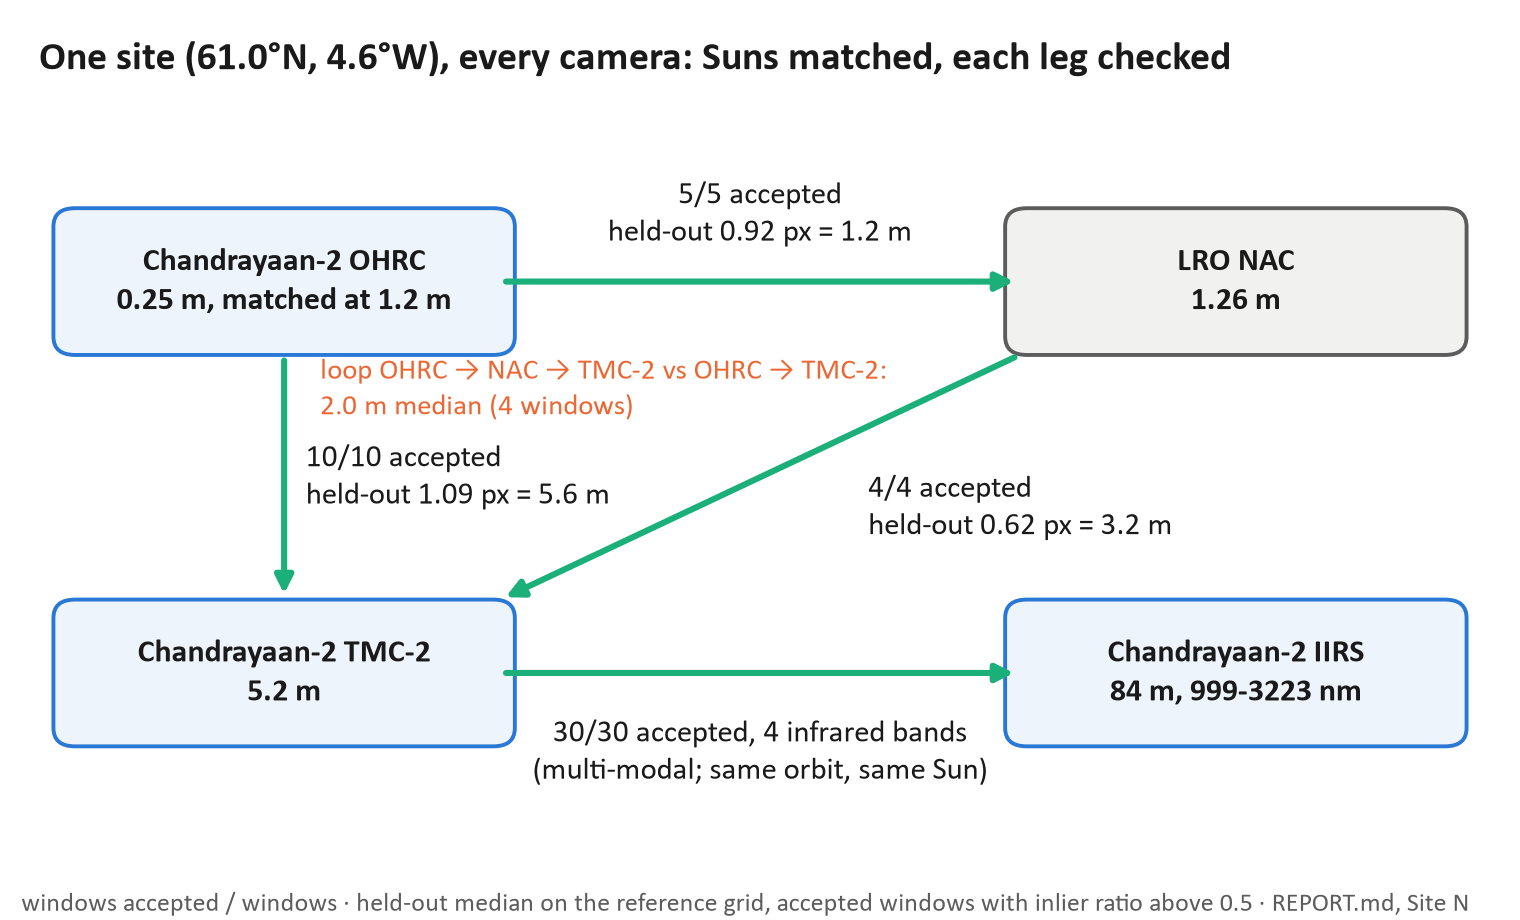
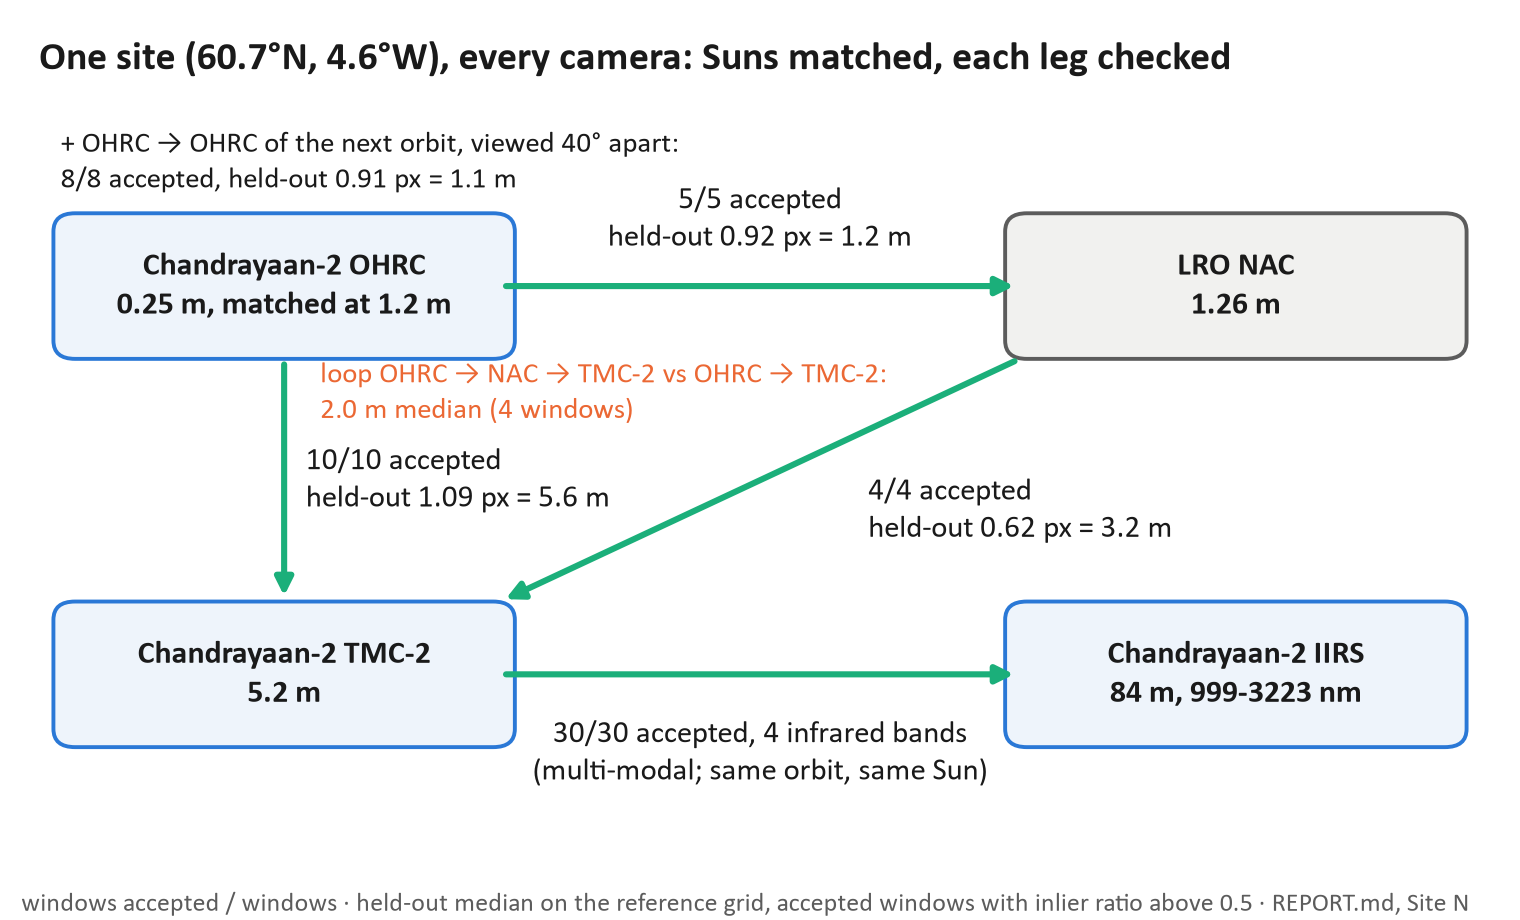
make_report: Site N's real viewpoint test (both viewing directions and Suns per window, the angle between them, verdicts, held-out medians), Site N placed at the windows' median; make_figures: fig10 carries the viewpoint pair and the same site position

diff --git a/ops/make_report.py b/ops/make_report.py
@@ -535,6 +535,8 @@ def section_site_n(reg, site_loops):
     windows and the loop OHRC -> NAC -> TMC-2 against OHRC -> TMC-2. Values read from the rows,
     the pairs' geometry_prior.json and the anchor NAC's saved correction."""
     rows = [r for r in reg if r["pair_id"].startswith("siten_")]
+    view = sorted([r for r in rows if _kind(r) == "ohrc-ohrc"], key=lambda r: r["pair_id"])
+    rows = [r for r in rows if _kind(r) != "ohrc-ohrc"]
     if not rows:
         return []
     gps = {r["pair_id"]: _jsonfile(ROOT / "data" / "pairs" / r["pair_id"] / "geometry_prior.json") or {} for r in rows}
@@ -550,9 +552,12 @@ def section_site_n(reg, site_loops):
     tmc = next((r["reference_product"] for r in rows if _kind(r).endswith("tmc2")), "?")
     nac = next((r["reference_product"] for r in rows if _kind(r) == "ohrc-nac"),
                next((r["source_product"] for r in rows if _kind(r) == "nac-tmc2"), "?"))
-    lat, lon = (g0.get("window_centre_latlon") or [None, None])
+    # the middle of the windows, as fig10's title (east longitudes in the log; the site is west of 0)
+    lat = st.median(float(r["window_lat"]) for r in rows)
+    lon = (st.median(float(r["window_lon"]) for r in rows) + 180.0) % 360.0 - 180.0
     L = ["## One site, every camera: OHRC, TMC-2, IIRS and an LRO NAC under matched Suns (Site N)", "",
-         f"OHRC `{ohrc}`, TMC-2 nadir `{tmc}`, LRO NAC `{nac}` near {_f(lat, 2)}°, {_f(lon, 2)}° "
+         f"OHRC `{ohrc}`, TMC-2 nadir `{tmc}`, LRO NAC `{nac}`, windows centred near {abs(lat):.1f}°"
+         f"{'N' if lat >= 0 else 'S'}, {abs(lon):.1f}°{'E' if lon >= 0 else 'W'} "
          f"(`ops/cut_chain_pairs.py site`; found in PRADAN's footprint catalogue and WUSTL ODE by matching the Suns). "
          f"The OHRC archive grid is first moved ({sh[0]:+.0f}, {sh[1]:+.0f}) m into LRO's geometry by the NAC's 4 m "
          f"correction against it; the NAC is placed by LROC's corners and the TMC-2 by its archive grid, so no TMC-2 "
@@ -600,10 +605,56 @@ def section_site_n(reg, site_loops):
     L += ["The IIRS strip of the TMC-2's own orbit is registered onto the TMC-2 in the section above "
           f"(*TMC-2 → IIRS*, the orbit of `{tmc}`).", ""] if any(
         r["pair_id"].startswith(f"chain_tmc{tmc[12:20]}_iirs") for r in reg) else []
+    L += section_view_n(view)
     for k, name, _ in order:
         if legs.get(k):
             L += section_pairs(f"Site N, {name}, window by window", sorted(legs[k], key=lambda r: r["pair_id"]), "",
                                level="####")
+    return L
+
+
+def section_view_n(view):
+    """Site N's real viewpoint test (ops/cut_chain_pairs.py viewpoint): two OHRC frames of consecutive
+    orbits, forward- and backward-looking, the viewing directions and Suns read per window from the
+    pairs' geometry_prior.json (each frame's own .oat and .spm)."""
+    if not view:
+        return []
+    gps = {r["pair_id"]: _jsonfile(ROOT / "data" / "pairs" / r["pair_id"] / "geometry_prior.json") or {} for r in view}
+    vw = [gps[r["pair_id"]].get("view_at_window") or {} for r in view]
+    sep = [v["angle_between_deg"] for v in vw if v.get("angle_between_deg") is not None]
+    g = float(view[0]["ref_gsd_m"])
+    acc = [r for r in view if r["verdict"] == "agrees"]
+    rob = _robust(acc)
+    med = [float(r["residual_median_px"]) for r in rob]
+    c = Counter(r["verdict"] for r in view)
+    d_inc = [float(r["d_incidence_deg"]) for r in view]
+    d_az = [float(r["d_sun_azimuth_deg"]) for r in view]
+    L = ["### A real viewpoint test at Site N: OHRC looking forward → OHRC looking back, the next orbit", "",
+         f"`{view[0]['source_product']}` (source) → `{view[0]['reference_product']}` (reference), two hours apart. "
+         f"Same instrument - a viewpoint test, NOT cross-sensor. At the windows the two viewing directions are "
+         + (f"**{min(sep):.1f}-{max(sep):.1f}° apart**, from opposite sides of the site" if sep else "n/a")
+         + f"; the Sun moved {min(d_az):.2f}-{max(d_az):.2f}° in azimuth and "
+         + (f"{min(d_inc):+.1f}°" if f"{min(d_inc):+.1f}" == f"{max(d_inc):+.1f}" else f"{min(d_inc):+.1f} to {max(d_inc):+.1f}°")
+         + f" in incidence. Both frames were put in LRO's geometry by the same NAC's 4 m correction against each, "
+         f"never fitted to one another, and resampled to one {g:g} m grid; windows are every third centre on the "
+         f"source frame's centre line, fixed before matching. Each image is placed by its own pointing on a sphere, "
+         f"so what a window's homography cannot absorb is relief parallax between the two views. "
+         f"**{c['agrees']}/{len(view)} accepted**"
+         + (f"; held-out median {st.median(med):.2f} px ({st.median(med) * g:.2f} m) on the {g:g} m grid "
+            f"(range {min(med):.2f}-{max(med):.2f} px, accepted windows with inlier ratio above 0.5)" if med else "")
+         + ". Viewing directions from each frame's `.oat` (sub-spacecraft point and altitude), Suns from its `.spm`, "
+         "both at the window's image line.", "",
+         "| pair | source view: off vertical, from az | reference view | apart | Δincidence | inliers | ratio | "
+         "held-out median px (m) | verified / no-evid | verdict |", "|---|---|---|---|---|---|---|---|---|---|"]
+    for r, v in zip(view, vw):
+        a, b = v.get("a") or {}, v.get("b") or {}
+        mp = r.get("residual_median_px")
+        L.append(f"| `{r['pair_id']}` | {_f(a.get('emission_deg'), 1)}°, {_f(a.get('spacecraft_azimuth_deg'), 0)}° | "
+                 f"{_f(b.get('emission_deg'), 1)}°, {_f(b.get('spacecraft_azimuth_deg'), 0)}° | "
+                 f"{_f(v.get('angle_between_deg'), 1)}° | {_f(r['d_incidence_deg'], 2)}° | {r['inliers']} | "
+                 f"{_f(r['inlier_ratio'])} | {_f(mp)}" + (f" ({float(mp) * g:.2f})" if mp else "")
+                 + f" | {r['verified']} / {r['no_evidence']} | {r['verdict']} |")
+    L.append("")
     return L
 
 

diff --git a/presentation/make_figures.py b/presentation/make_figures.py
@@ -1011,7 +1011,7 @@ def fig_site_n():
 
     fig, ax = plt.subplots(figsize=(7.6, 4.6))
     ax.set_xlim(0, 10)
-    ax.set_ylim(0, 6.2)
+    ax.set_ylim(0, 6.25)
     ax.axis("off")
     g = lambda rows, k: float(rows[0][k])  # noqa: E731
     nodes = {
@@ -1046,12 +1046,26 @@ def fig_site_n():
         acc = sum(r["verdict"] == "agrees" for r in ti)
         edge("T", "I", ti, (5.0, 0.75))
         ax.texts[-1].set_text(f"{acc}/{len(ti)} accepted, {len(bands)} infrared bands\n(multi-modal; same orbit, same Sun)")
+    view = [r for p, r in latest.items() if re.match(r"siten_ohrc\d+_ohrc\d+_c\d+$", p)]
+    if view:
+        import json
+        a1, m1 = summ(view)
+        sep = []
+        for r in view:                     # the angle between the two viewing directions, per window
+            p = ROOT / "data" / "pairs" / r["pair_id"] / "geometry_prior.json"
+            if p.exists():
+                v = (json.loads(p.read_text(encoding="utf-8")).get("view_at_window") or {}).get("angle_between_deg")
+                sep += [float(v)] if v is not None else []
+        apart = f", viewed {np.median(sep):.0f}° apart" if sep else ""
+        ax.text(0.15, 5.62, f"+ OHRC → OHRC of the next orbit{apart}:\n{a1}, {m1}",
+                ha="left", va="center", fontsize=10.5, color=INK)
     if loops:
         rms = [float(r["loop_rms_m"]) for r in loops]
         ax.text(1.95, 3.72, f"loop OHRC → NAC → TMC-2 vs OHRC → TMC-2:\n{np.median(rms):.1f} m median "
                 f"({len(loops)} windows)", ha="left", va="center", fontsize=10.5, color=ORANGE)
-    lat = float(legs["ot"][0]["window_lat"])
-    lon = float(legs["ot"][0]["window_lon"])
+    every = legs["ot"] + legs["on"] + legs["nt"]                       # the middle of the windows, as REPORT
+    lat = float(np.median([float(r["window_lat"]) for r in every]))
+    lon = float(np.median([float(r["window_lon"]) for r in every]))
     ax.set_title(f"One site ({lat:.1f}°N, {abs(lon if lon < 180 else lon - 360):.1f}°W), every camera: "
                  "Suns matched, each leg checked", loc="left", fontweight="bold", fontsize=14.5, pad=6)
     fig.text(0.014, 0.01, "windows accepted / windows · held-out median on the reference grid, accepted windows "
